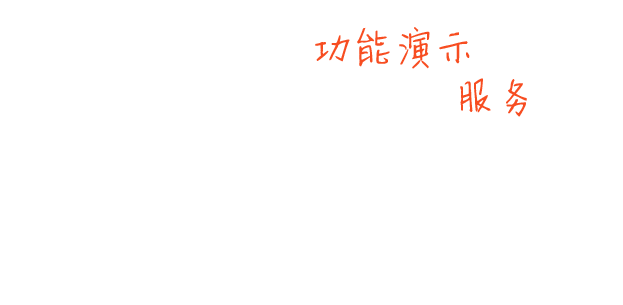
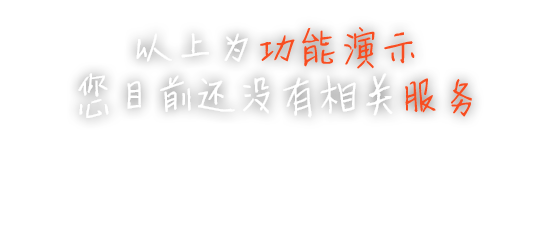
服务页添加我知道了功能

Changed region(s): [[0.1232, 0.0909, 0.8623, 0.5152], [0.2156, 0.1515, 0.308, 0.2727], [0.3388, 0.1515, 0.3696, 0.2727]]

diff --git a/app/service/service/ServicePage.js b/app/service/service/ServicePage.js
@@ -39,12 +39,13 @@ export default class ServicePage extends BComponent {
             is_demo:1,//是否演示数据,
             year:today.getFullYear().toString(),
             month:(today.getMonth() + 1).toString(),
-            isRefreshing:false
+            isRefreshing:false,
+            isClose:false
 
         };
         this._renderBody=this._renderBody.bind(this);
         this._renderDemo=this._renderDemo.bind(this);
-        this.goBuy=this.goBuy.bind(this);
+        this.toClose=this.toClose.bind(this);
 
     }
     static navigatorStyle = {
@@ -199,14 +200,16 @@ export default class ServicePage extends BComponent {
         }
     }
 
-    goBuy(){
-        this.props.navigator.switchToTab({
-            tabIndex: 0
-        });
+    toClose(){
+        this.setState(
+            {
+                isClose:true
+            }
+        )
     }
 
     _renderDemo(isDemo){
-        if(isDemo==1) {
+        if(isDemo==1&&!this.state.isClose) {
             return (
                 <View>
                 <View style={{
@@ -215,7 +218,7 @@ export default class ServicePage extends BComponent {
                     left: 0,
                     width: DeviceInfo.width,
                     height: 190,
-                    backgroundColor: 'rgba(00, 00, 00, 0.5)',
+                    backgroundColor: 'rgba(00, 00, 00, 0.8)',
                     justifyContent: 'center',
                     alignItems: 'center',
                 }}
@@ -238,8 +241,8 @@ export default class ServicePage extends BComponent {
                     }}
                           pointerEvents='box-none'
                     >
-                        <TouchableOpacity onPress={()=>this.goBuy()}>
-                        <Image style={{resizeMode : "contain",marginTop:15}} source={require('../../img/service_demo_buy.png')}/>
+                        <TouchableOpacity onPress={()=>this.toClose()}>
+                        <Image style={{resizeMode : "contain",marginTop:18}} source={require('../../img/service_demo_close.png')}/>
                         </TouchableOpacity>
                     </View>
                 </View>

diff --git a/app/mine/myOrder/MyOrderPage.js b/app/mine/myOrder/MyOrderPage.js
@@ -53,6 +53,7 @@ export default class MyOrderPage extends BComponent {
             },
             (e) => {
                 this.loadData()
+                console.log(e)
             },
         );
     }
